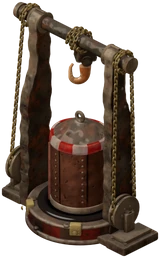
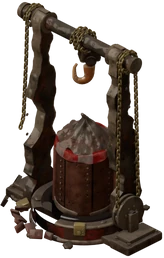
Quake Tower 3D: re-exported the damaged look (torn, breached, debris); its picture now stands at x -42

diff --git a/web/src/game/yard/buildingArtTiers.ts b/web/src/game/yard/buildingArtTiers.ts
@@ -333,7 +333,7 @@ export const TOWER_TIER_ART: Readonly<Record<number, readonly TierArt[]>> = {
   129: [
     { from: 1, top: ["top.t1@2x.webp", -40, -74], shadow: ["shadow.1.v2.jpg", -37, 17], lift: -1,
       anim: { strip: ["anim.t1@2x.webp", -40, -74, 80, 129, 33], columns: 25, whole: true },
-      damaged: { top: ["top.t1.damaged@2x.webp", -40, -74], shadow: ["shadow.1.v2.jpg", -40, 16] },
+      damaged: { top: ["top.t1.damaged@2x.webp", -42, -74], shadow: ["shadow.1.v2.jpg", -40, 16] },
       destroyed: { top: ["top.t1.destroyed@2x.webp", -47, -12], shadow: ["shadow.1.v2.jpg", -44, 10] } },
   ],
   // 132 Magma Tower: 3D, the Volcanic look (owner, 29 Oct 2026); six levels, so 1-2, 3-4 and 5-6
